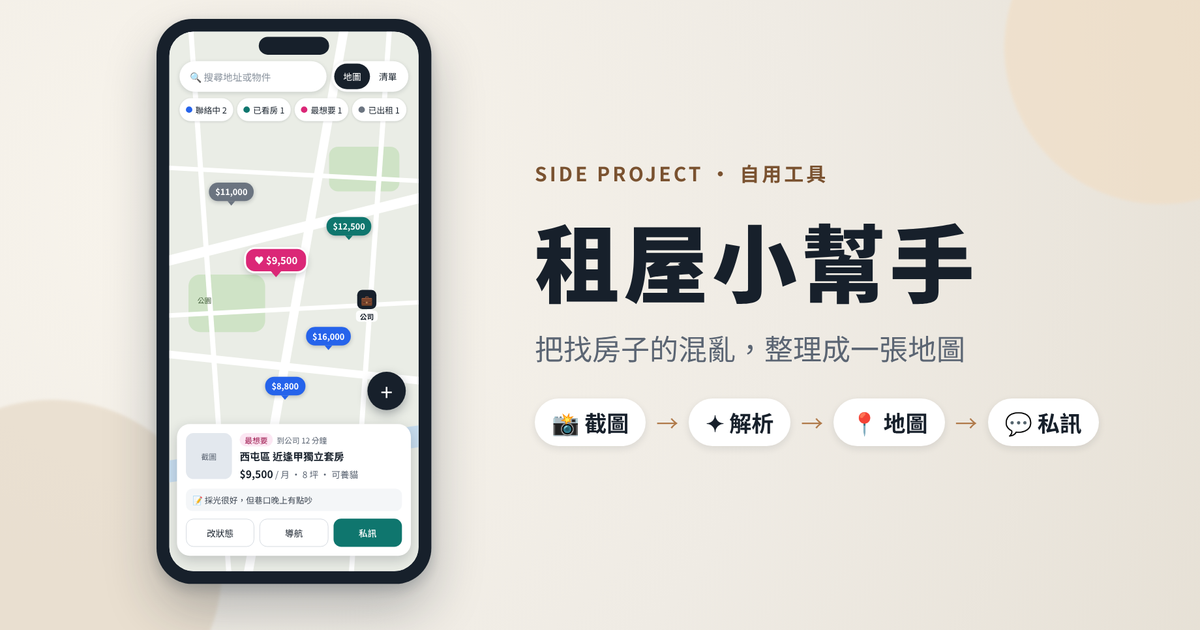
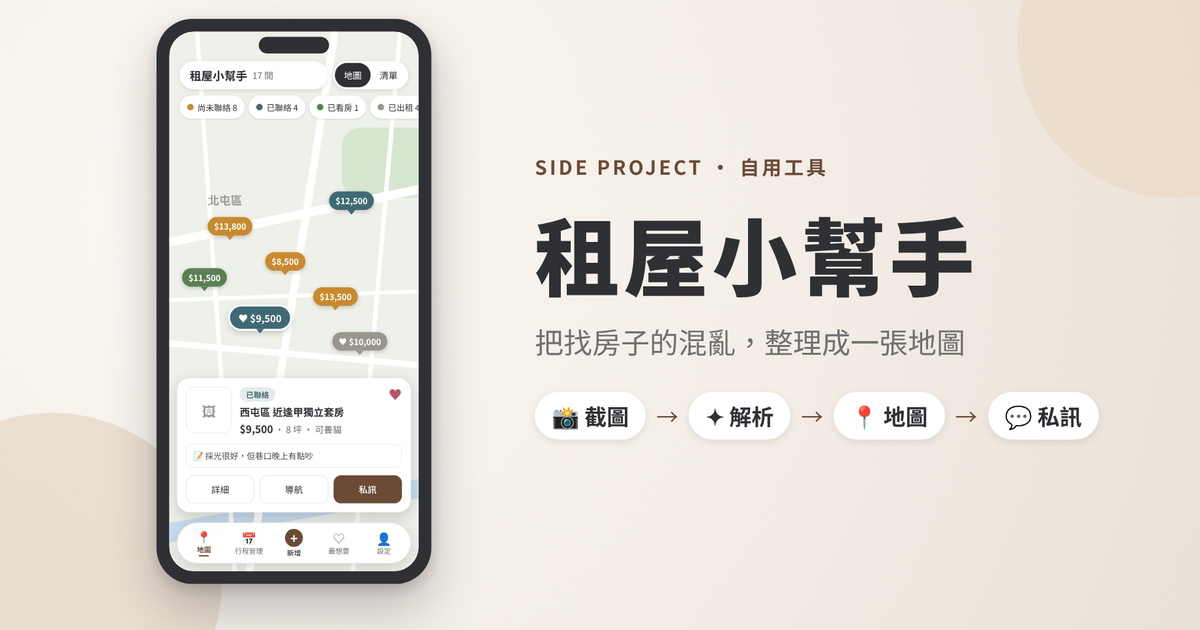
feat(apps/portfolio): update rental helper images to new design
Replace cover and screen images with the updated brown design, add schedule/favorites/detail shots, and
refresh the feature bullets to match.

Claude-Session: https://claude.ai/code/session_01RYqmfouTdMgoK1uxpu7BZp

diff --git a/apps/portfolio/src/app/api/data/projects-data-en.ts b/apps/portfolio/src/app/api/data/projects-data-en.ts
@@ -34,6 +34,9 @@ import {
   Rental4,
   Rental5,
   Rental6,
+  Rental7,
+  Rental8,
+  Rental9,
 } from '@/public/img';
 
 export const PROJECTS_DATA_EN: FullProject[] = [
@@ -44,7 +47,7 @@ export const PROJECTS_DATA_EN: FullProject[] = [
     displayCategory: 'AI Implementation',
     period: '2026',
     description:
-      "While apartment hunting for my move, I kept screenshotting listings from 591 and Facebook groups, checking each location in Google Maps, and copying details to message landlords' agents one by one. So I built a tool for myself.\n\nDrop in listing screenshots and AI reads the address, rent, room type, phone and LINE ID, pins them on a map, and generates a message template in one tap.\n\n• Map home colors each listing by status: contacted, viewed, rented, with a separate heart for favorites\n• Upload several screenshots at once; fields the AI isn't sure about are highlighted in yellow\n• Tap to call, tap to open LINE, and message templates auto-filled with listing details\n• Viewing schedule, shareable listing links, and inviting family to search together\n• After lending it to real-estate agents I know, I found they need a similar tool to manage their listings",
+      "While apartment hunting for my move, I kept screenshotting listings from 591 and Facebook groups, checking each location in Google Maps, and copying details to message landlords' agents one by one. So I built a tool for myself.\n\nDrop in listing screenshots and AI reads the address, rent, room type, phone and LINE ID, pins them on a map, and generates a message template in one tap.\n\n• Map home colors each listing by progress: not contacted, contacted, viewed, rented; tap the heart to save favorites\n• Upload several screenshots at once; fields the AI isn't sure about are highlighted in yellow\n• One tap to call or open LINE or Instagram, with message templates auto-filled with listing details\n• Book viewings from a listing and see them all on a calendar; listings can also be shared by link\n• After lending it to real-estate agents I know, I found they need a similar tool to manage their listings",
     imageUrl: Rental1.src,
     link: '/projects/rental',
     tags: ['AI Integration', 'Google Maps', 'Firebase', 'Full-Stack'],
@@ -63,6 +66,9 @@ export const PROJECTS_DATA_EN: FullProject[] = [
       { type: 'image', url: Rental4.src },
       { type: 'image', url: Rental5.src },
       { type: 'image', url: Rental6.src },
+      { type: 'image', url: Rental7.src },
+      { type: 'image', url: Rental8.src },
+      { type: 'image', url: Rental9.src },
     ],
     links: [
       {

diff --git a/apps/portfolio/src/app/api/data/projects-data-zh.ts b/apps/portfolio/src/app/api/data/projects-data-zh.ts
@@ -34,6 +34,9 @@ import {
   Rental4,
   Rental5,
   Rental6,
+  Rental7,
+  Rental8,
+  Rental9,
 } from '@/public/img';
 
 export const PROJECTS_DATA_ZH: FullProject[] = [
@@ -44,7 +47,7 @@ export const PROJECTS_DATA_ZH: FullProject[] = [
     displayCategory: 'AI 實作',
     period: '2026',
     description:
-      '準備搬家找房時，我習慣把 591、FB 社團上的物件截圖，再一張張丟到 Google Maps 查位置、複製資料私訊代管，來回切換很花時間，所以做了這個自用工具。\n\n把租屋截圖丟進來，AI 自動讀出地址、租金、房型、電話和 LINE，標在地圖上，再一鍵產生私訊範本。\n\n• 地圖首頁依狀態上色：聯絡中、已看房、已出租，「最想要」用愛心另外標記\n• 一次上傳多張截圖，AI 沒把握的欄位會用黃色提醒確認\n• 電話一鍵撥打、LINE ID 一鍵開啟，私訊範本自動帶入物件資料\n• 預約看房行程、分享物件連結、邀請家人一起找房\n• 借給認識的房仲試用後，發現他們管理物件也需要類似工具',
+      '準備搬家找房時，我習慣把 591、FB 社團上的物件截圖，再一張張丟到 Google Maps 查位置、複製資料私訊代管，來回切換很花時間，所以做了這個自用工具。\n\n把租屋截圖丟進來，AI 自動讀出地址、租金、房型、電話和 LINE，標在地圖上，再一鍵產生私訊範本。\n\n• 地圖首頁依進度上色：尚未聯絡、已聯絡、已看房、已出租，喜歡的按愛心收進「最想要」\n• 一次上傳多張截圖，AI 沒把握的欄位會用黃色提醒確認\n• 電話、LINE、IG 一鍵聯絡，私訊範本自動帶入物件資料\n• 在物件裡預約看房，行程管理用月曆一次看完；也能分享物件連結\n• 借給認識的房仲試用後，發現他們管理物件也需要類似工具',
     imageUrl: Rental1.src,
     link: '/projects/rental',
     tags: ['AI Integration', 'Google Maps', 'Firebase', 'Full-Stack'],
@@ -63,6 +66,9 @@ export const PROJECTS_DATA_ZH: FullProject[] = [
       { type: 'image', url: Rental4.src },
       { type: 'image', url: Rental5.src },
       { type: 'image', url: Rental6.src },
+      { type: 'image', url: Rental7.src },
+      { type: 'image', url: Rental8.src },
+      { type: 'image', url: Rental9.src },
     ],
     links: [
       {

diff --git a/apps/portfolio/src/public/img/index.ts b/apps/portfolio/src/public/img/index.ts
@@ -36,3 +36,6 @@ export { default as Rental3 } from './project-rental-3.webp';
 export { default as Rental4 } from './project-rental-4.webp';
 export { default as Rental5 } from './project-rental-5.webp';
 export { default as Rental6 } from './project-rental-6.webp';
+export { default as Rental7 } from './project-rental-7.webp';
+export { default as Rental8 } from './project-rental-8.webp';
+export { default as Rental9 } from './project-rental-9.webp';
